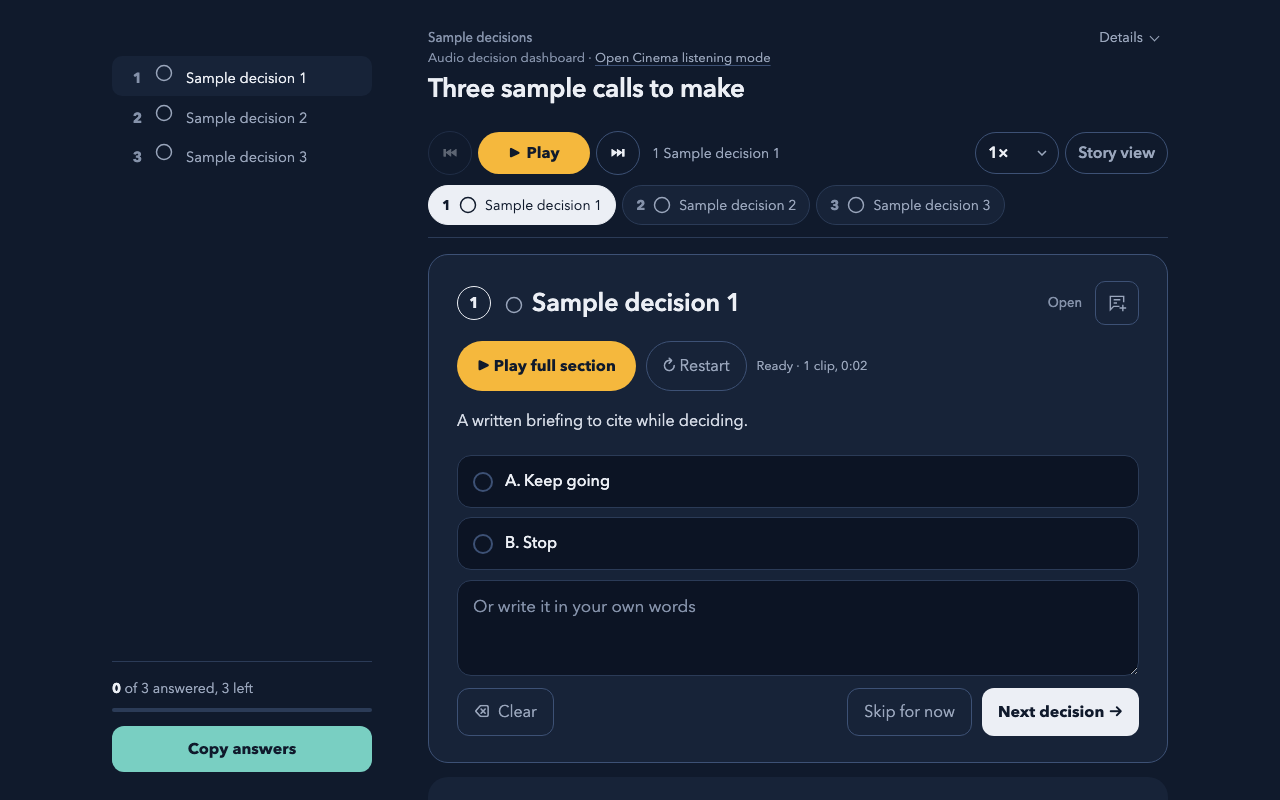
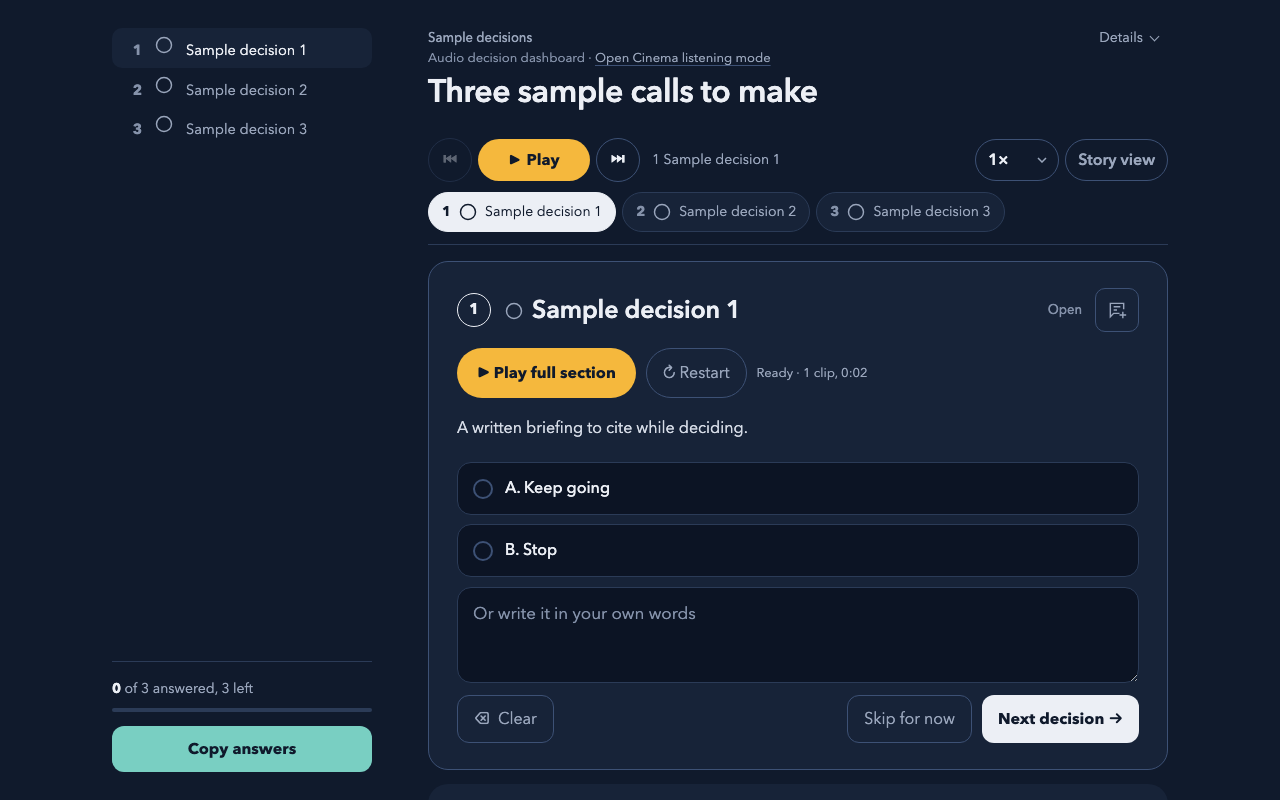
fix(audio-dashboard): restore header hierarchy and desktop alignment (AD0 r1)
- h1 24px phone / 32px desktop so it outranks the 21/25px card titles.
- Sidebar top padding 56px -> 28px so it shares the header's top line;
  Details summary stays centred on the kicker line.
- Kicker back to --muted; Cinema link nowrap; phone top padding 16px
  (summary top 4px) so the focus ring clears the viewport edge.
- SKILL.md line scoped to the decision-flow template.
- Layout tests: cinema-link overlap/no-split case, heading-vs-card-title
  rank, desktop kicker/sidebar top line.
- Regenerated all visual proof from the same synthetic fixture, plus a
  storage-error shot.

diff --git a/skills/golem-powers/audio-dashboard/templates/decision-flow/decision-flow.css b/skills/golem-powers/audio-dashboard/templates/decision-flow/decision-flow.css
@@ -19,14 +19,14 @@ a{color:inherit}
 
 /* Layout: one column on the phone; setlist index beside the ledger on desktop. */
 .df-layout{max-width:1120px;margin:0 auto;padding:0 16px}
-.df-top{position:relative;padding:calc(12px + env(safe-area-inset-top)) 4px 10px}
-.df-kicker{margin:0;padding-right:76px;color:var(--faint);font-size:13px;font-weight:500}
+.df-top{position:relative;padding:calc(16px + env(safe-area-inset-top)) 4px 10px}
+.df-kicker{margin:0;padding-right:76px;color:var(--muted);font-size:13px;font-weight:500}
 .df-mode-label{margin:0 0 6px;padding-right:76px;color:var(--faint);font-size:13px}
-.df-cinema-link{color:var(--muted);text-decoration-color:var(--line-strong);text-underline-offset:3px}
+.df-cinema-link{white-space:nowrap;color:var(--muted);text-decoration-color:var(--line-strong);text-underline-offset:3px}
 .df-cinema-link:hover{color:var(--moon)}
-.df-top h1{margin:0;font-size:21px;line-height:1.2;font-weight:600;letter-spacing:-.012em;text-wrap:balance}
+.df-top h1{margin:0;font-size:24px;line-height:1.18;font-weight:600;letter-spacing:-.012em;text-wrap:balance}
 /* Details sits on the kicker line: a 44px pill target, chevron shows open state. */
-.df-context>summary{position:absolute;top:env(safe-area-inset-top);right:0;display:inline-flex;align-items:center;justify-content:center;gap:8px;min-width:68px;min-height:44px;padding:0 10px;border-radius:999px;list-style:none;cursor:pointer;color:var(--muted);font-size:14px;transition:color .15s,transform .16s ease-out}
+.df-context>summary{position:absolute;top:calc(4px + env(safe-area-inset-top));right:0;display:inline-flex;align-items:center;justify-content:center;gap:8px;min-width:68px;min-height:44px;padding:0 10px;border-radius:999px;list-style:none;cursor:pointer;color:var(--muted);font-size:14px;transition:color .15s,transform .16s ease-out}
 .df-context>summary::-webkit-details-marker{display:none}
 .df-context>summary::after{content:"";width:6px;height:6px;border-right:1.5px solid currentColor;border-bottom:1.5px solid currentColor;transform:translateY(-2px) rotate(45deg);transition:transform .2s cubic-bezier(.23,1,.32,1)}
 .df-context[open]>summary::after{transform:translateY(1px) rotate(225deg)}
@@ -183,7 +183,7 @@ body:has(.df-card.is-active.is-playing) .df-tplay{background:transparent;color:v
   .df-chips{margin:10px 0 0;padding:0;scroll-padding-inline:0}
   .df-top{padding:28px 0 14px}
   .df-context>summary{top:16px}
-  .df-top h1{font-size:26px}
+  .df-top h1{font-size:32px}
   .df-card{padding:26px 28px 26px}
   .df-card-head{grid-template-areas:"rank title status note";grid-template-columns:auto 1fr auto auto;align-items:center}
   .df-title{margin:0;font-size:25px}
@@ -202,7 +202,7 @@ body:has(.df-card.is-active.is-playing) .df-tplay{background:transparent;color:v
   .df-top{grid-area:top}
   .df-controller{grid-area:ctrl;margin:0 0 16px;padding:12px 0}
   .df-ledger{grid-area:ledger;padding-bottom:96px}
-  .df-side{grid-area:side;position:sticky;top:0;align-self:start;display:flex;flex-direction:column;height:100vh;padding:56px 0 28px}
+  .df-side{grid-area:side;position:sticky;top:0;align-self:start;display:flex;flex-direction:column;height:100vh;padding:28px 0 28px}
   .df-index{display:block;flex:1 1 auto;min-height:0;overflow:auto;margin:0 -10px}
   .df-index-list{list-style:none;margin:0;padding:0 10px}
   .df-index-list a{display:flex;gap:12px;align-items:baseline;padding:7px 10px;border-radius:10px;color:var(--muted);font-size:14.5px;line-height:1.35;text-decoration:none}

diff --git a/skills/golem-powers/audio-dashboard/SKILL.md b/skills/golem-powers/audio-dashboard/SKILL.md
@@ -262,7 +262,7 @@ orchestration scripts, never to private engine checkouts.
 
 ### Job spec
 
-`heading` is a title of at most 8 words. Put status and context in `subtitle`, which renders collapsed under Details.
+For decision-flow dashboards, `heading` is a title of at most 8 words. Put status and context in `subtitle`, which the decision-flow template renders collapsed under Details.
 
 `--spec` points at a JSON job (see `examples/job.json`):
 
